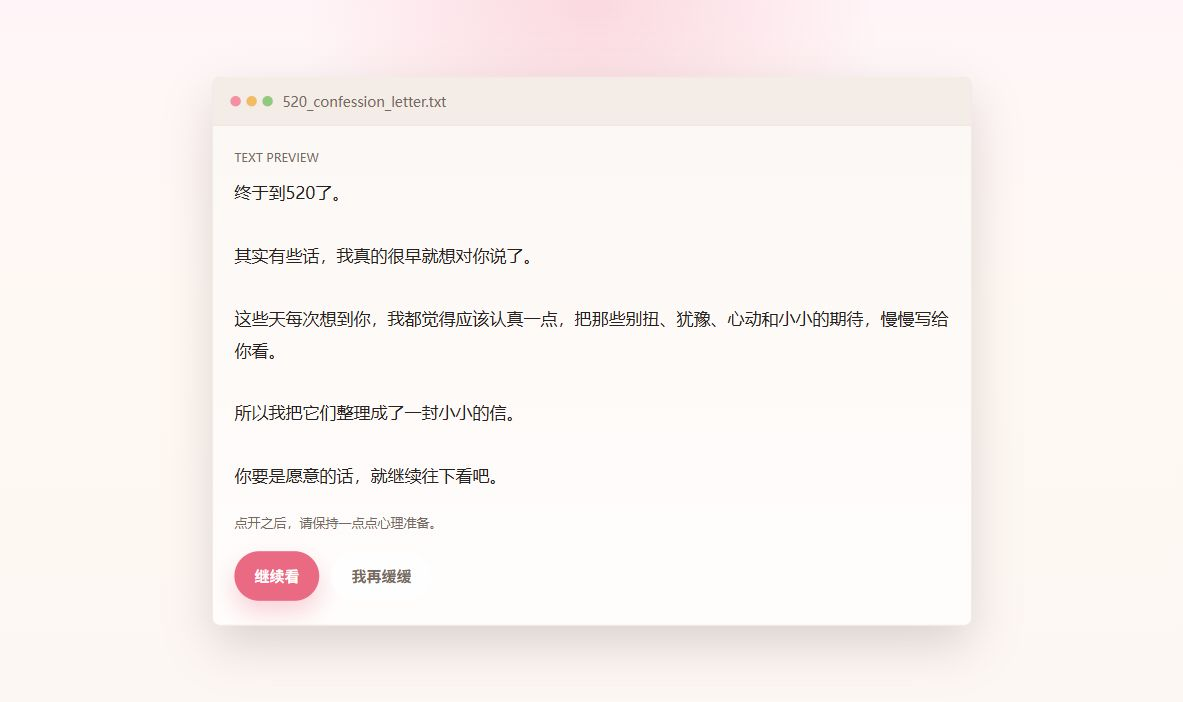
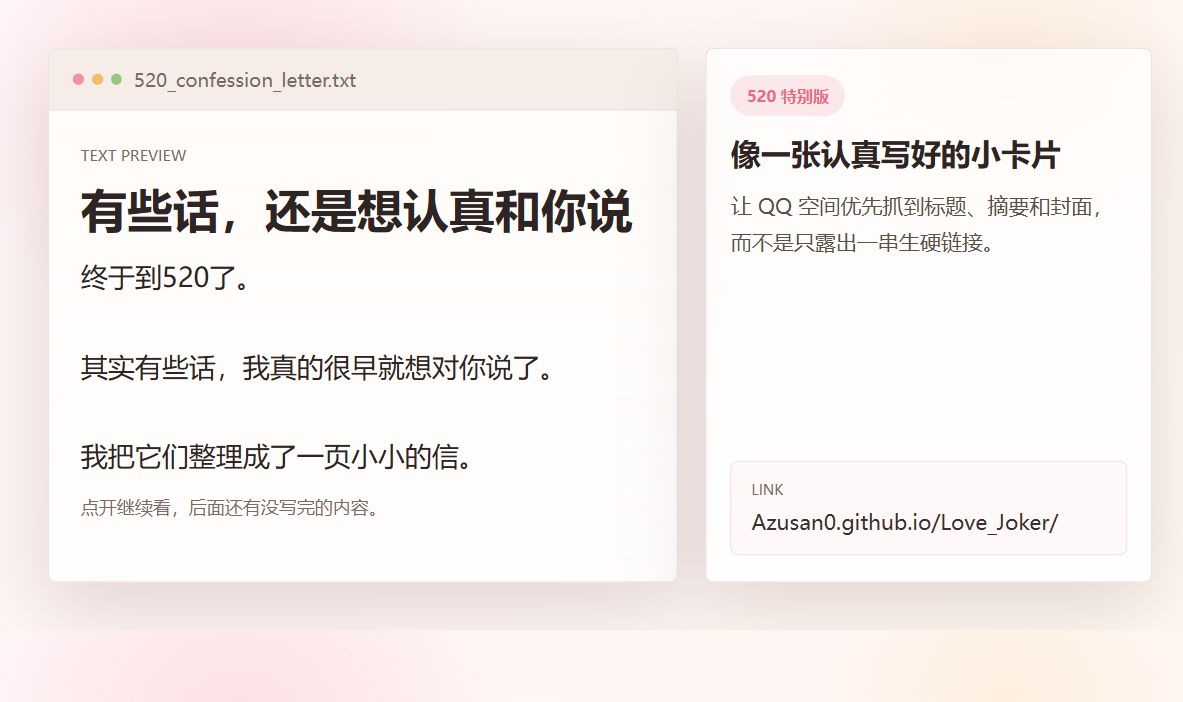
Improve share card metadata and cover

diff --git a/share-cover.html b/share-cover.html
@@ -1,0 +1,235 @@
+<!doctype html>
+<html lang="zh-CN">
+  <head>
+    <meta charset="utf-8">
+    <meta name="viewport" content="width=device-width, initial-scale=1">
+    <title>Share Cover</title>
+    <style>
+      :root {
+        color-scheme: light;
+        --bg-1: #fff4f6;
+        --bg-2: #fff8f1;
+        --paper: rgba(255, 252, 249, 0.96);
+        --paper-edge: rgba(233, 220, 213, 0.96);
+        --ink: #2d2423;
+        --muted: #7b6a64;
+        --accent: #e96a82;
+        --accent-soft: rgba(233, 106, 130, 0.14);
+        --shadow: 0 28px 80px rgba(74, 40, 46, 0.16);
+      }
+
+      * {
+        box-sizing: border-box;
+      }
+
+      html,
+      body {
+        width: 1200px;
+        height: 630px;
+        margin: 0;
+        overflow: hidden;
+        font-family: "PingFang SC", "Microsoft YaHei", sans-serif;
+        background:
+          radial-gradient(circle at 20% 18%, rgba(233, 106, 130, 0.16), transparent 24%),
+          radial-gradient(circle at 84% 12%, rgba(250, 202, 120, 0.16), transparent 18%),
+          linear-gradient(135deg, var(--bg-1) 0%, var(--bg-2) 100%);
+        color: var(--ink);
+      }
+
+      body {
+        padding: 48px;
+      }
+
+      .frame {
+        width: 100%;
+        height: 100%;
+        display: grid;
+        grid-template-columns: 1.2fr 0.85fr;
+        gap: 28px;
+        align-items: stretch;
+      }
+
+      .card {
+        border-radius: 8px;
+        background: linear-gradient(180deg, var(--paper) 0%, #fffdfc 100%);
+        border: 1px solid var(--paper-edge);
+        box-shadow: var(--shadow);
+        overflow: hidden;
+      }
+
+      .note {
+        display: grid;
+        grid-template-rows: auto 1fr;
+      }
+
+      .bar {
+        display: flex;
+        align-items: center;
+        gap: 12px;
+        padding: 18px 24px;
+        background: #f6ede8;
+        border-bottom: 1px solid #eaded8;
+      }
+
+      .dots {
+        display: flex;
+        gap: 8px;
+      }
+
+      .dot {
+        width: 11px;
+        height: 11px;
+        border-radius: 999px;
+        background: #dbc8c0;
+      }
+
+      .dot:nth-child(1) {
+        background: #f391a0;
+      }
+
+      .dot:nth-child(2) {
+        background: #f1be6a;
+      }
+
+      .dot:nth-child(3) {
+        background: #95c77f;
+      }
+
+      .filename {
+        margin: 0;
+        font-size: 19px;
+        color: var(--muted);
+      }
+
+      .content {
+        padding: 34px 32px 30px;
+        display: grid;
+        align-content: start;
+        gap: 18px;
+      }
+
+      .eyebrow {
+        margin: 0;
+        font-size: 15px;
+        color: var(--muted);
+      }
+
+      h1 {
+        margin: 0;
+        font-size: 46px;
+        line-height: 1.18;
+        letter-spacing: 0;
+      }
+
+      .copy {
+        margin: 0;
+        white-space: pre-line;
+        font-size: 27px;
+        line-height: 1.65;
+      }
+
+      .hint {
+        margin: 0;
+        font-size: 18px;
+        color: var(--muted);
+      }
+
+      .meta {
+        padding: 26px 24px;
+        display: grid;
+        grid-template-rows: auto 1fr auto;
+        gap: 18px;
+        background:
+          linear-gradient(180deg, rgba(255, 255, 255, 0.68) 0%, rgba(255, 255, 255, 0.92) 100%);
+      }
+
+      .pill {
+        justify-self: start;
+        padding: 10px 16px;
+        border-radius: 999px;
+        background: var(--accent-soft);
+        color: var(--accent);
+        font-size: 16px;
+        font-weight: 700;
+      }
+
+      .summary {
+        display: grid;
+        align-content: start;
+        gap: 16px;
+      }
+
+      .summary h2 {
+        margin: 0;
+        font-size: 30px;
+        line-height: 1.3;
+      }
+
+      .summary p {
+        margin: 0;
+        font-size: 21px;
+        line-height: 1.7;
+        color: #5b4f4a;
+      }
+
+      .url {
+        align-self: end;
+        padding: 18px 20px;
+        border-radius: 8px;
+        background: #fff8f8;
+        border: 1px solid #f0d7de;
+      }
+
+      .url-label {
+        margin: 0 0 8px;
+        font-size: 14px;
+        color: var(--muted);
+        text-transform: uppercase;
+      }
+
+      .url-value {
+        margin: 0;
+        font-size: 21px;
+        line-height: 1.4;
+        color: #3a3030;
+        word-break: break-all;
+      }
+    </style>
+  </head>
+  <body>
+    <main class="frame">
+      <section class="card note">
+        <div class="bar">
+          <div class="dots" aria-hidden="true">
+            <span class="dot"></span>
+            <span class="dot"></span>
+            <span class="dot"></span>
+          </div>
+          <p class="filename">520_confession_letter.txt</p>
+        </div>
+        <div class="content">
+          <p class="eyebrow">TEXT PREVIEW</p>
+          <h1>有些话，还是想认真和你说</h1>
+          <p class="copy">终于到520了。
+
+其实有些话，我真的很早就想对你说了。
+
+我把它们整理成了一页小小的信。</p>
+          <p class="hint">点开继续看，后面还有没写完的内容。</p>
+        </div>
+      </section>
+
+      <aside class="card meta">
+        <div class="pill">520 特别版</div>
+        <div class="summary">
+          <h2>像一张认真写好的小卡片</h2>
+          <p>让 QQ 空间优先抓到标题、摘要和封面，而不是只露出一串生硬链接。</p>
+        </div>
+        <div class="url">
+          <p class="url-label">Link</p>
+          <p class="url-value">Azusan0.github.io/Love_Joker/</p>
+        </div>
+      </aside>
+    </main>
+  </body>
+</html>

diff --git a/index.html b/index.html
@@ -3,18 +3,30 @@
   <head>
     <meta charset="utf-8">
     <meta name="viewport" content="width=device-width, initial-scale=1">
-    <title>终于还是想认真和你说</title>
+    <title>有些话，还是想认真和你说</title>
     <meta
       name="description"
-      content="终于到520了，其实有些话我很早就想对你说了。"
+      content="我把想说的话整理成了一页小小的信，点开看看。"
     >
-    <meta property="og:title" content="终于还是想认真和你说">
+    <meta property="og:title" content="有些话，还是想认真和你说">
     <meta
       property="og:description"
-      content="终于到520了，其实有些话我很早就想对你说了。"
+      content="我把想说的话整理成了一页小小的信，点开看看。"
     >
     <meta property="og:type" content="website">
+    <meta property="og:site_name" content="Love Joker">
+    <meta property="og:url" content="https://azusan0.github.io/Love_Joker/">
     <meta property="og:image" content="./share-cover.png">
+    <meta property="og:image:width" content="1200">
+    <meta property="og:image:height" content="630">
+    <meta property="og:image:alt" content="一张像手写信预览卡片的分享封面">
+    <meta name="twitter:card" content="summary_large_image">
+    <meta name="twitter:title" content="有些话，还是想认真和你说">
+    <meta
+      name="twitter:description"
+      content="我把想说的话整理成了一页小小的信，点开看看。"
+    >
+    <meta name="twitter:image" content="./share-cover.png">
     <meta name="theme-color" content="#f7f2ef">
     <style>
       :root {

diff --git a/README.md b/README.md
@@ -8,7 +8,8 @@
 
 - `index.html`：整蛊页本体
 - `prank-image.jpg`：已经接入的整蛊图
-- `share-cover.png`：分享封面图，已经生成
+- `share-cover.png`：给 QQ 空间抓取的分享卡片封面
+- `share-cover.html`：封面图的可编辑源页面
 
 ## 直接预览
 
@@ -24,6 +25,7 @@
 2. `<meta name="description">`：分享摘要
 3. `.letter` 里的正文：首屏假装表白信的内容
 4. `.prank__caption`：整蛊图出现后的底部文案
+5. `share-cover.html`：如果你想改分享卡片上的标题、摘要或链接文字
 
 ## QQ 空间发出去更像样的小建议
 
